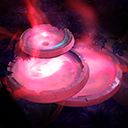
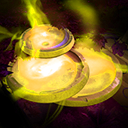
* Fixed Imbattlepass reward orders * Bottle now use custom battlepass effect
Former-commit-id: 8a941d4c7de41eeaf72ca7e11d9a339b87bfae78

diff --git a/content/dota_addons/dota_imba/panorama/styles/custom_game/imba_imr.css b/content/dota_addons/dota_imba/panorama/styles/custom_game/imba_imr.css
@@ -513,6 +513,7 @@
 	height: 60px;
 	vertical-align: top;
 	background-position: 0px 0px;
+//	background-size: 74px 60px;
 }
 
 .BattlepassRewardIcon_locked {
